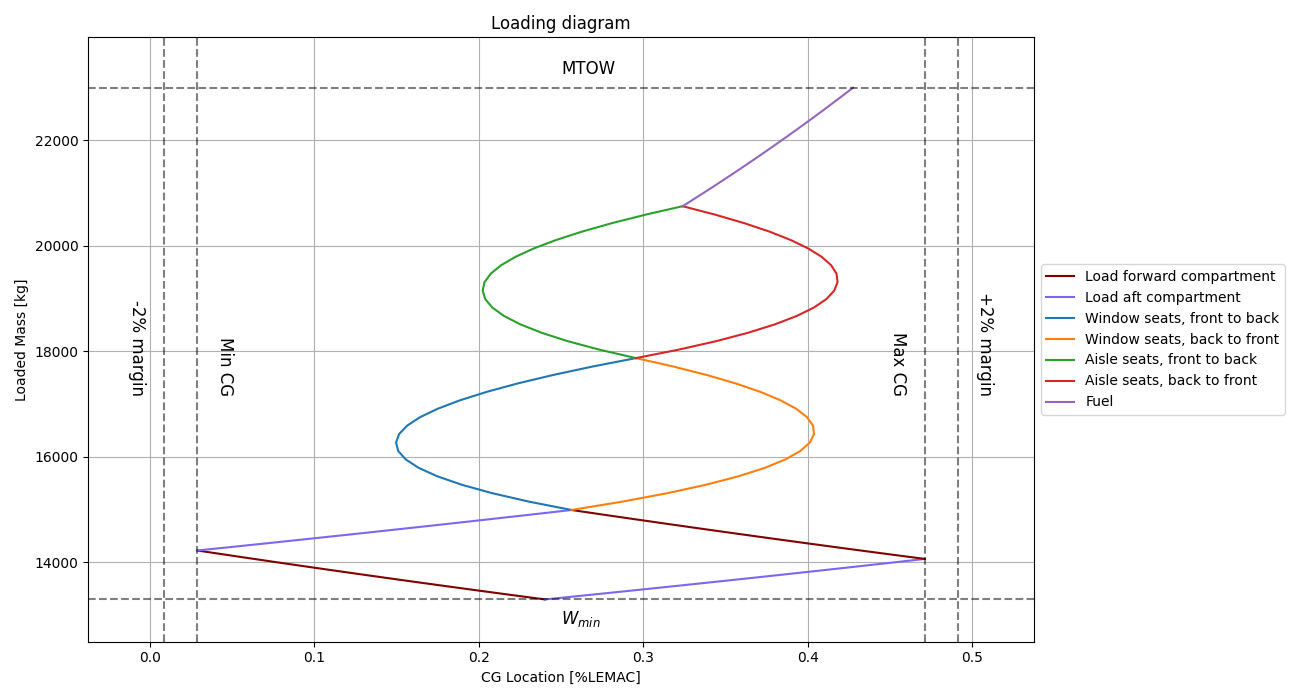
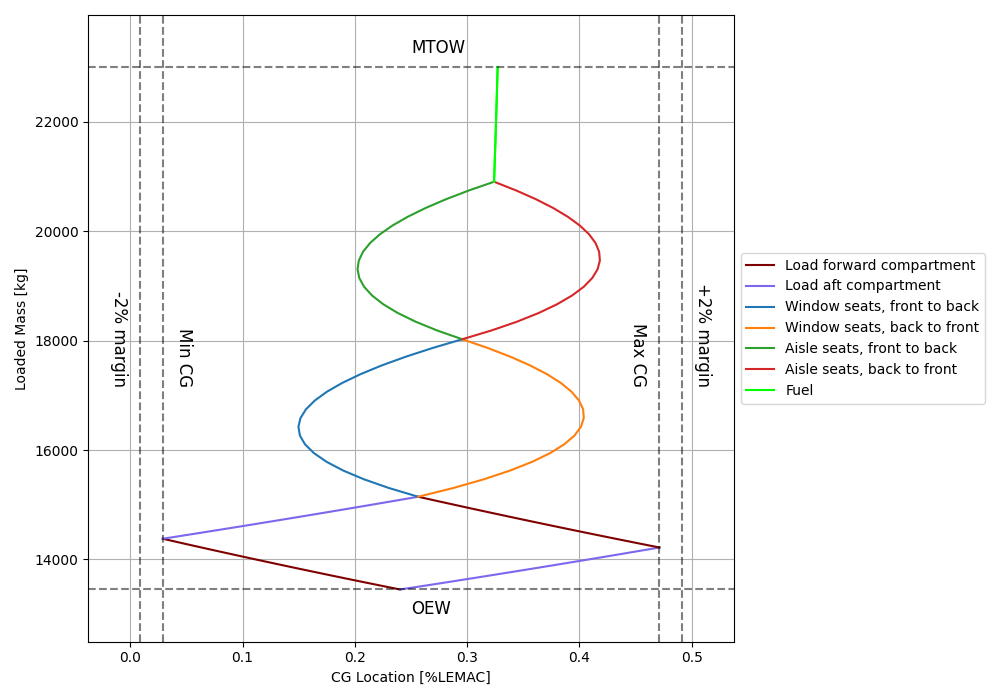
finished loading diagrams

diff --git a/loaddiagram_improved.py b/loaddiagram_improved.py
@@ -3,6 +3,7 @@ import matplotlib.pyplot as plt
 from copy import copy
 
 plot = True
+save = False
 
 #Calculate LEMAC position in ac ref. sys.
 xcg_wing = 12.11714 #m
@@ -61,7 +62,7 @@ last_row_xcg = (column_pax-1)*seat_pitch+first_row_xcg
 pax_cgs = np.linspace(first_row_xcg,last_row_xcg,column_pax)
 
 #fuel cg
-fuel_xcg = 14.43 #m ,from DSC 2. p.4
+fuel_xcg = 14.43-2.362 #m ,from DSC 2. p.4
 
 #cargo cg, mass
 cargo_fw_xcg = 6.697-2.362 #m, same for left and right compartment, from https://pdfcoffee.com/weight-n-balance-atr-42-72-3-pdf-free.html, p.10
@@ -117,7 +118,8 @@ def assemble(*groups:Group,base:None|np.ndarray=None):
         running = group.data + base
         base = running[:,-1].reshape(2,1)
         cgs = running[0]/running[1]
-        series.append(np.vstack([cgs,running[1]]))
+        weigths = running[1]-Wmin+OEW
+        series.append(np.vstack([cgs,weigths]))
         names.append(group.name)
         colors.append(group.color)
 
@@ -148,7 +150,7 @@ Wmin = float(Structure[1])
 
 #fuel loading
 
-fuel_weight_max = np.min([MFW,MTOW-Wmin-cargo_aft_capacity-cargo_fw_capacity-num_pax*avg_pax_weight])
+fuel_weight_max = np.min([MFW,MTOW-OEW-cargo_aft_capacity-cargo_fw_capacity-num_pax*avg_pax_weight])
 
 fuel_weights = np.linspace(0,fuel_weight_max)
 fuel_moments = fuel_weights*fuel_xcg
@@ -166,63 +168,118 @@ Pax_aisle_fw_to_aft = Group(aisle_columns*np.vstack([pax_moments_fw_to_aft,pax_w
 Pax_window_aft_to_fw = Group(window_columns*np.vstack([pax_moments_aft_to_fw,pax_weights]),"Window seats, back to front")
 Pax_aisle_aft_to_fw = Group(aisle_columns*np.vstack([pax_moments_aft_to_fw,pax_weights]),"Aisle seats, back to front")
 
-Fuel = Group(np.vstack([fuel_moments,fuel_weights]),"Fuel")
+Fuel1 = Group(np.vstack([fuel_moments,fuel_weights]),"Fuel","lime")
+Fuel2 = copy(Fuel1)
+Fuel2.name = None
 
 NullGroup = Group(np.zeros((2,1)),None)
 print(f"Empty mass cg: {float(Structure[0]/Structure[1])} m = {float(conversion_m_LEMAC_percent([np.array([[Structure[0]/Structure[1]],[Structure[1]]]),])[0][0])} LEMAC")
 #assembly
-series01_raw, names01, colors01 = assemble(CargoF1,CargoA1,Pax_window_fw_to_aft,Pax_aisle_fw_to_aft,Fuel,base=Structure)
-series02_raw, names02, colors02 = assemble(CargoA2,CargoF2,Pax_window_aft_to_fw,Pax_aisle_aft_to_fw,NullGroup,base=Structure)
+
+#cargo, pax, fuel
+series01_raw, names01, colors01 = assemble(CargoF1,CargoA1,Pax_window_fw_to_aft,Pax_aisle_fw_to_aft,Fuel1,base=Structure)
+series02_raw, names02, colors02 = assemble(CargoA2,CargoF2,Pax_window_aft_to_fw,Pax_aisle_aft_to_fw,Fuel2,base=Structure)
+
+#fuel,cargo,pax
+series11_raw, names11, colors11 = assemble(Fuel1,CargoF1,CargoA1,Pax_window_fw_to_aft,Pax_aisle_fw_to_aft,base=Structure)
+series12_raw, names12, colors12 = assemble(Fuel2,CargoA2,CargoF2,Pax_window_aft_to_fw,Pax_aisle_aft_to_fw,base=Structure)
+
+#pax,fuel,cargo
+series21_raw, names21, colors21 = assemble(Pax_window_fw_to_aft,Pax_aisle_fw_to_aft,Fuel1,CargoF1,CargoA1,base=Structure)
+series22_raw, names22, colors22 = assemble(Pax_window_aft_to_fw,Pax_aisle_aft_to_fw,Fuel2,CargoA2,CargoF2,base=Structure)
+
+#fuel,pax,cargo
+series31_raw, names31, colors31 = assemble(Fuel1,Pax_window_fw_to_aft,Pax_aisle_fw_to_aft,CargoA1,CargoF1,base=Structure)
+series32_raw, names32, colors32 = assemble(Fuel2,Pax_window_aft_to_fw,Pax_aisle_aft_to_fw,CargoF2,CargoA2,base=Structure)
+
+#cargo, fuel, pax
+series41_raw, names41, colors41 = assemble(CargoF1,CargoA1,Fuel1,Pax_window_fw_to_aft,Pax_aisle_fw_to_aft,base=Structure)
+series42_raw, names42, colors42 = assemble(CargoA2,CargoF2,Fuel2,Pax_window_aft_to_fw,Pax_aisle_aft_to_fw,base=Structure)
+
+#pax,cargo,fuel
+series51_raw, names51, colors51 = assemble(Pax_window_fw_to_aft,Pax_aisle_fw_to_aft,CargoF1,CargoA1,Fuel1,base=Structure)
+series52_raw, names52, colors52 = assemble(Pax_window_aft_to_fw,Pax_aisle_aft_to_fw,CargoA2,CargoF2,Fuel2,base=Structure)
+
 
 series01 = conversion_m_LEMAC_percent(series01_raw)
 series02 = conversion_m_LEMAC_percent(series02_raw)
 
-cg_min0, cg_max0 = extract_extreme_cgs(series01,series02)
-print(f"Minimum cg: {cg_min0-0.02}\nMaximum cg: {cg_max0+0.02}")
+series11 = conversion_m_LEMAC_percent(series11_raw)
+series12 = conversion_m_LEMAC_percent(series12_raw)
 
-if plot:
-    #plotting
+series21 = conversion_m_LEMAC_percent(series21_raw)
+series22 = conversion_m_LEMAC_percent(series22_raw)
 
-    plt.figure(1,figsize=(13, 7))  # Adjust figure size
+series31 = conversion_m_LEMAC_percent(series31_raw)
+series32 = conversion_m_LEMAC_percent(series32_raw)
+
+series41 = conversion_m_LEMAC_percent(series41_raw)
+series42 = conversion_m_LEMAC_percent(series42_raw)
+
+series51 = conversion_m_LEMAC_percent(series51_raw)
+series52 = conversion_m_LEMAC_percent(series52_raw)
+
+counter = 1
+def plot_loaddiagram(series1,series2,names1,names2,colors1,colors2,save=False,saveName=None):
+#plotting
+    global counter
+    cg_min, cg_max = extract_extreme_cgs(series1,series2)
+    print(f'#{counter}: Minimum cg: {cg_min-0.02}\tMaximum cg: {cg_max+0.02}')
+    counter += 1
+    plt.figure(figsize=(10, 7))  # Adjust figure size
 
     # Plot the loading diagrams
-    for i in range(len(series01)):
-        plt.plot(series01[i][0], series01[i][1], label=names01[i],color=colors01[i])
-        plt.plot(series02[i][0], series02[i][1], label=names02[i],color=colors02[i])
+    for i in range(len(series1)):
+        plt.plot(series1[i][0], series1[i][1], label=names1[i],color=colors1[i])
+        plt.plot(series2[i][0], series2[i][1], label=names2[i],color=colors2[i])
 
-    x_margin = 0.15 * (cg_max0 - cg_min0)  # 15% extra space on x-axis
+    plt.gca().set_aspect('auto')
+
+    x_margin = 0.15 * (cg_max - cg_min)  # 15% extra space on x-axis
     y_margin = 0.1 * (MTOW - OEW)  # 10% extra space on y-axis
 
-    plt.xlim(cg_min0 - x_margin, cg_max0 + x_margin)
+    plt.xlim(cg_min - x_margin, cg_max + x_margin)
     plt.ylim(OEW - y_margin, MTOW + y_margin)
 
     # Plot CG limits with labels
-    plt.axhline(Wmin, linestyle='dashed', color='k', alpha=0.5)
-    plt.text(0.5*(cg_min0+cg_max0),Wmin-y_margin/5, "$W_{min}$", color='k', va='top', fontsize=12)
+    plt.axhline(OEW, linestyle='dashed', color='k', alpha=0.5)
+    plt.text(0.5*(cg_min+cg_max),OEW-y_margin/5, "OEW", color='k', va='top', fontsize=12)
 
     plt.axhline(MTOW, linestyle='dashed', color='k', alpha=0.5)
-    plt.text(0.5*(cg_min0+cg_max0),MTOW+y_margin/5, "MTOW", color='k', va='bottom', fontsize=12)
+    plt.text(0.5*(cg_min+cg_max),MTOW+y_margin/5, "MTOW", color='k', va='bottom', fontsize=12)
 
-    plt.axvline(cg_min0, linestyle='dashed', color='k', alpha=0.5)
-    plt.text(cg_min0+x_margin/6, 0.5*(OEW+MTOW)-1000, "Min CG", color='k', ha='left', fontsize=12,rotation=-90)
+    plt.axvline(cg_min, linestyle='dashed', color='k', alpha=0.5)
+    plt.text(cg_min+x_margin/6, 0.5*(OEW+MTOW)-1000, "Min CG", color='k', ha='left', fontsize=12,rotation=-90)
 
-    plt.axvline(cg_max0, linestyle='dashed', color='k', alpha=0.5)
-    plt.text(cg_max0-x_margin/6, 0.5*(OEW+MTOW)-1000, "Max CG", color='k', ha='right', fontsize=12,rotation=-90)
+    plt.axvline(cg_max, linestyle='dashed', color='k', alpha=0.5)
+    plt.text(cg_max-x_margin/6, 0.5*(OEW+MTOW)-1000, "Max CG", color='k', ha='right', fontsize=12,rotation=-90)
 
-    plt.axvline(cg_min0-0.02, linestyle='dashed', color='k', alpha=0.5)
-    plt.text(cg_min0-0.02-x_margin/6, 0.5*(OEW+MTOW)-1000, "-2% margin", color='k', ha='right', fontsize=12,rotation=-90)
+    plt.axvline(cg_min-0.02, linestyle='dashed', color='k', alpha=0.5)
+    plt.text(cg_min-0.02-x_margin/6, 0.5*(OEW+MTOW)-1000, "-2% margin", color='k', ha='right', fontsize=12,rotation=-90)
 
-    plt.axvline(cg_max0+0.02, linestyle='dashed', color='k', alpha=0.5)
-    plt.text(cg_max0+0.02+x_margin/6, 0.5*(OEW+MTOW)-1000, "+2% margin", color='k', ha='left', fontsize=12,rotation=-90)
+    plt.axvline(cg_max+0.02, linestyle='dashed', color='k', alpha=0.5)
+    plt.text(cg_max+0.02+x_margin/6, 0.5*(OEW+MTOW)-1000, "+2% margin", color='k', ha='left', fontsize=12,rotation=-90)
 
     plt.grid()
     plt.ylabel("Loaded Mass [kg]")
     plt.xlabel("CG Location [%LEMAC]")
-    plt.title("Loading diagram")
+    #plt.title("Loading diagram")
     plt.legend(loc="center left", bbox_to_anchor=(1, 0.5))
     plt.tight_layout()
-    plt.savefig("loaddiagram.png")
-    plt.show()
+
+    if save:
+        plt.savefig(f'{saveName}.png')
+
+if __name__=="__main__":
+    plot_loaddiagram(series01,series02,names01,names02,colors01,colors02,save=True,saveName='loaddiagram')
+    #plot_loaddiagram(series11,series12,names11,names12,colors11,colors12)
+    #plot_loaddiagram(series21,series22,names21,names22,colors21,colors22)
+    #plot_loaddiagram(series31,series32,names31,names32,colors31,colors32)
+    #plot_loaddiagram(series41,series42,names41,names42,colors41,colors42)
+    plot_loaddiagram(series51,series52,names51,names52,colors51,colors52,save=True,saveName='loaddiagram_extreme')
+    #plot_loaddiagram(series01,series52,names01,names52,colors01,colors52)
+    if plot:
+        plt.show()
 
 
 """
